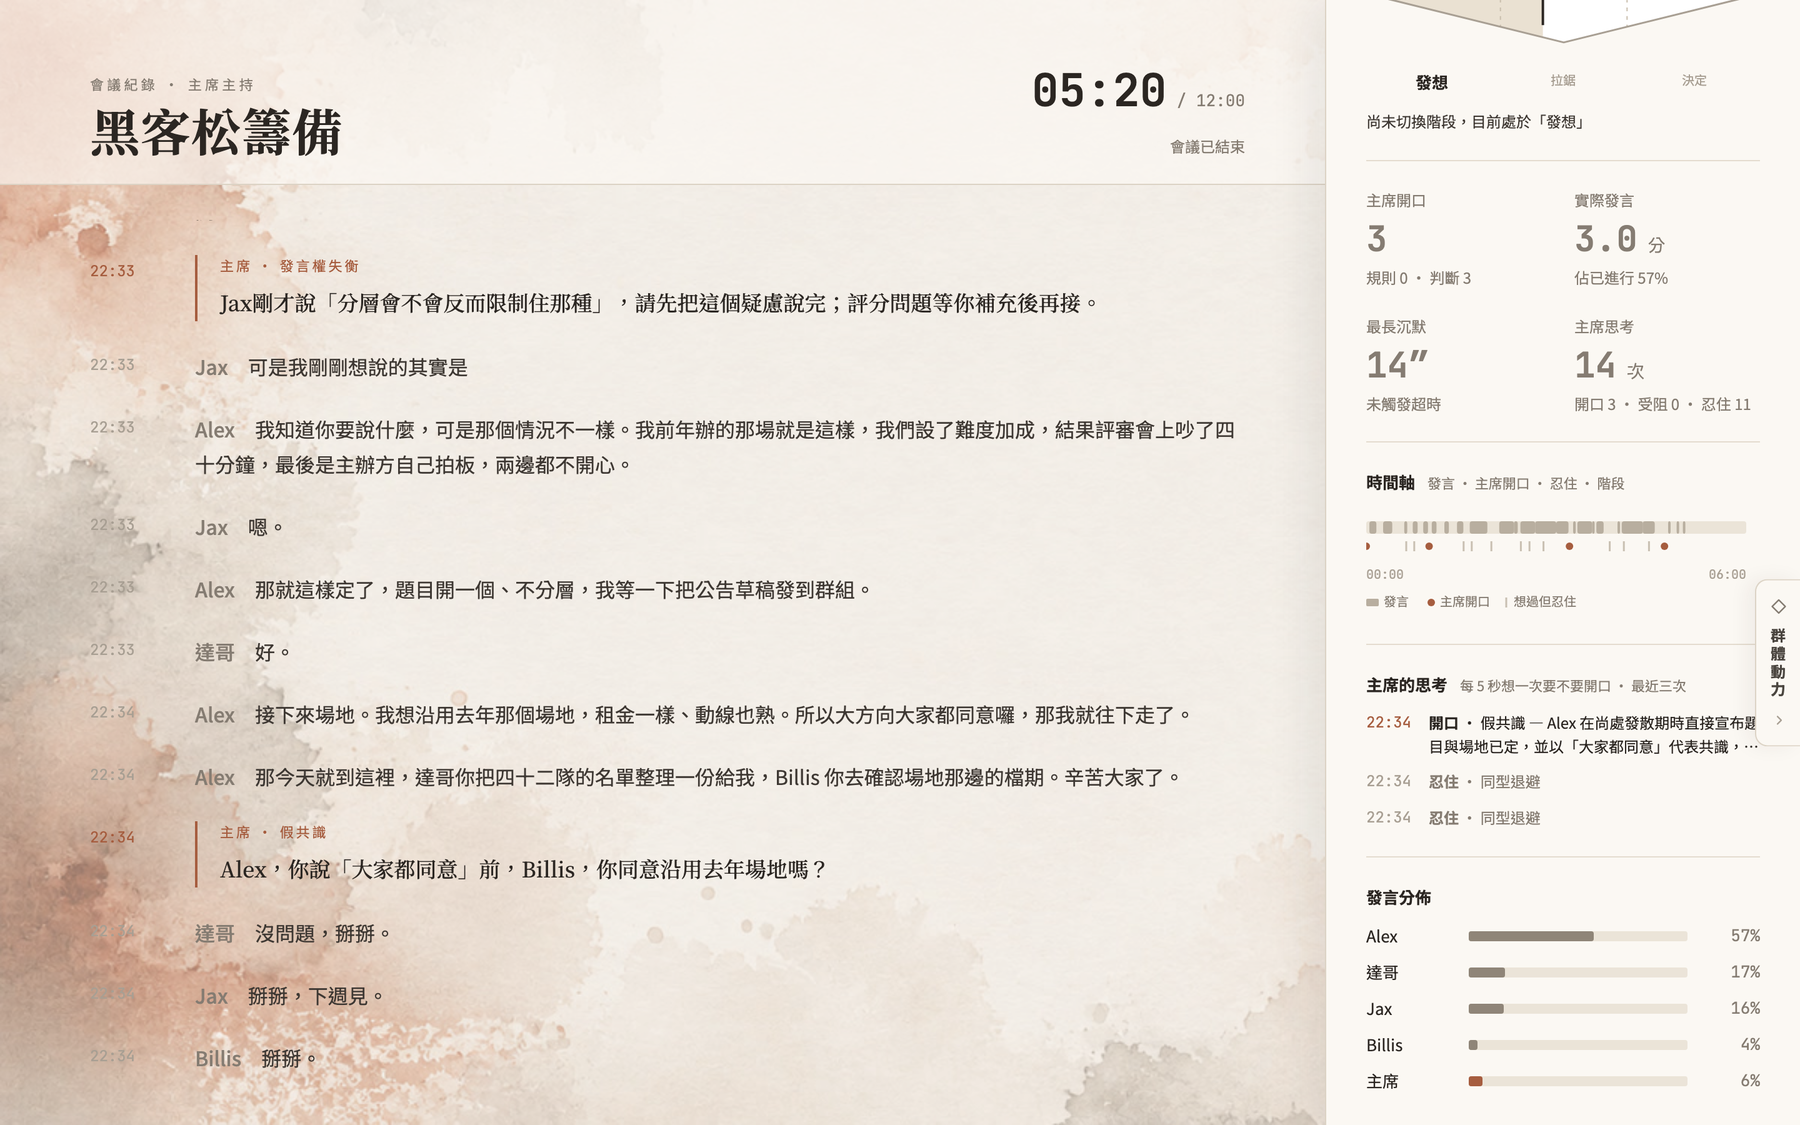
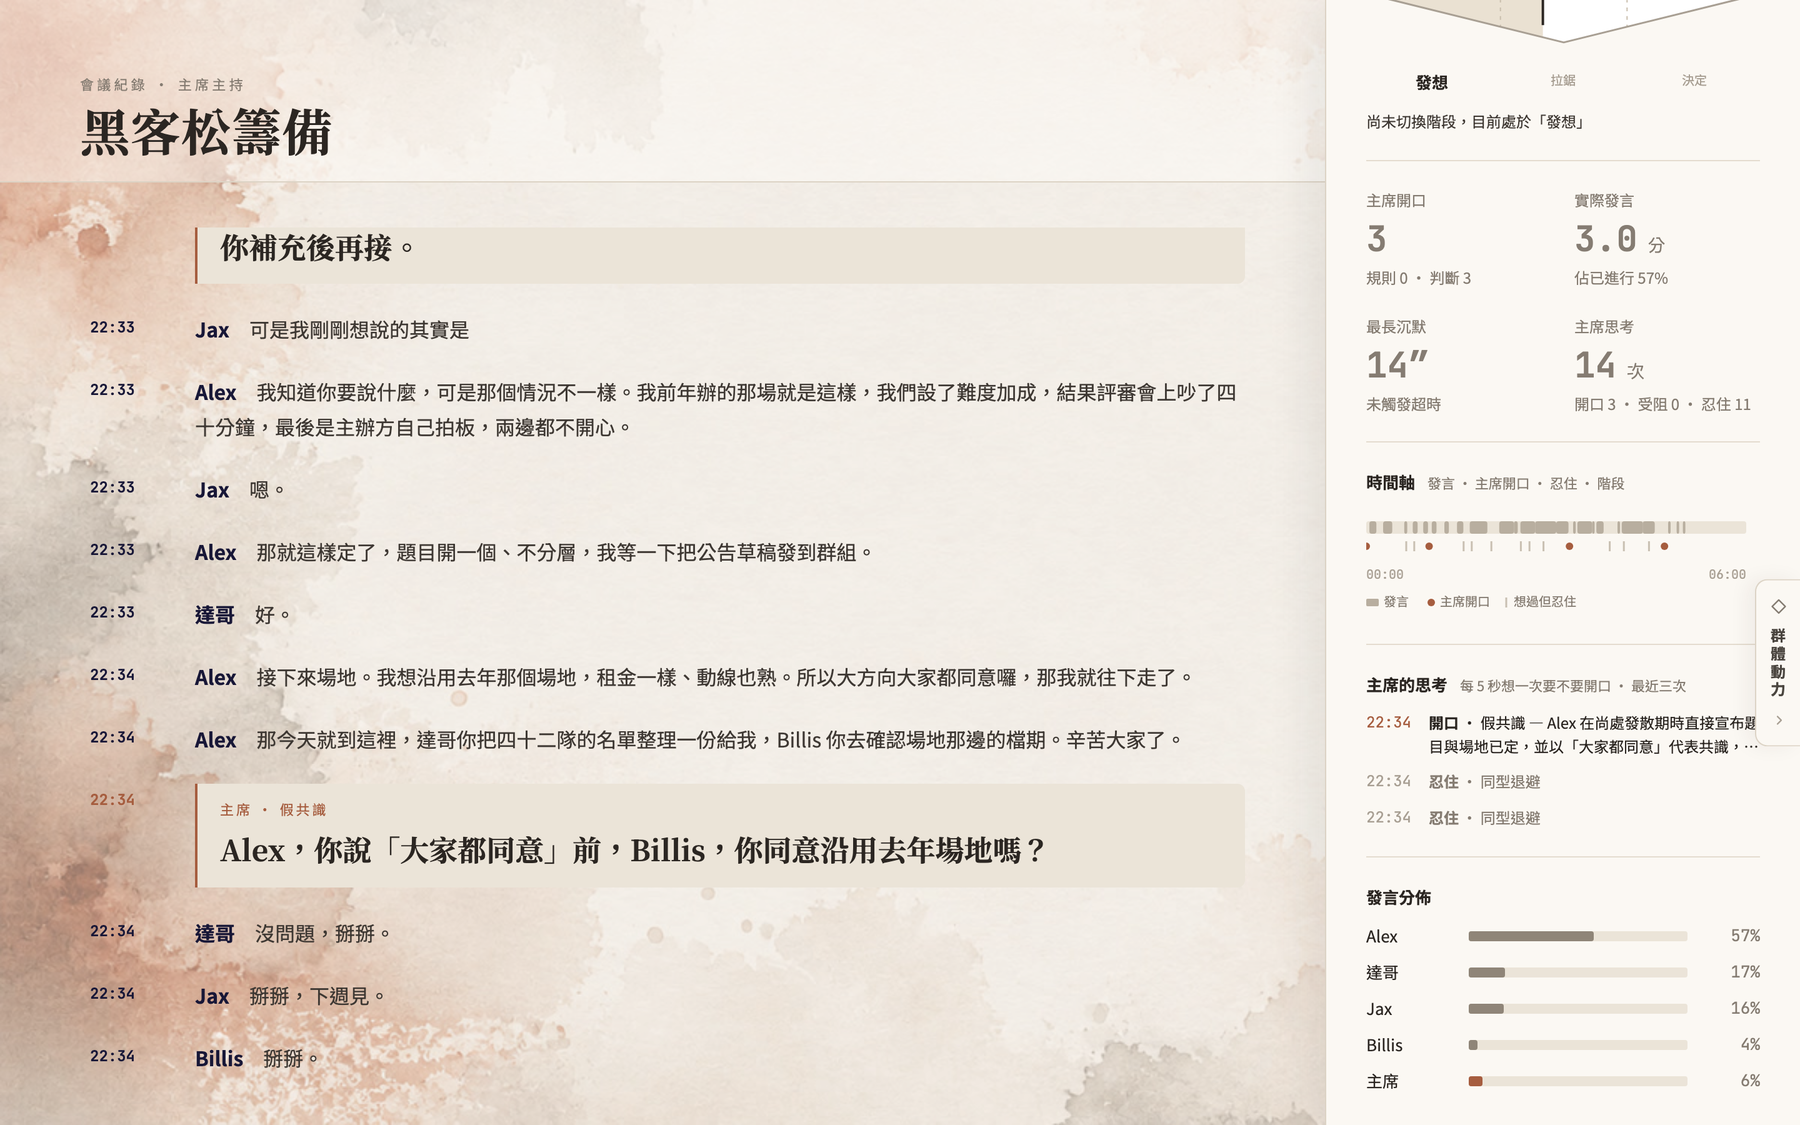
docs(readme): reshoot on the merged UI and ship the highlight cut spec
The interface changed again with PR #6, so the screenshot was one release
stale for the second time in two days. Reshot from the browser at 1.5x.

The reel's two "held back" beats had to be reframed: the new right column
puts the meeting output above the observations, pushing the chair's
reasoning below any crop that also contains the held-back badge. Measured
both — badge at y=107, observations at y=539 — and split them into two
shots, so one beat carries "it is holding back right now" and the other
carries why.

Ship the cut spec next to the event log it cuts, so the reel can be
rebuilt from the repository rather than from a file on one laptop. The
recording offset is now a flag: it differs per recording run, because
page load time is not fixed.

diff --git a/experiments/make_highlight.py b/experiments/make_highlight.py
@@ -61,7 +61,11 @@ ZOOM_END = 0.72      # 推到最後保留原畫面的幾成（越小推越近）
 TARGETS = {
     "none":     None,
     "chair":    (40, 240, 1000, 625),      # 左欄中下段，主席的介入出現在這裡（1.44×）
-    "thinking": (640, 60, 800, 500),       # 右欄「AI 即時觀察」與心聲（1.80×）
+    "thinking": (640, 60, 800, 500),       # 右欄上半（1.80×）
+    # 「忍住」有兩件事要講，但一個 16:10 的框裝不下：徽章在 y≈107，心聲在 y≈540 以下。
+    # 所以拆成兩個鏡位——徽章負責「它現在正忍著」，心聲負責「它為什麼忍」。
+    "held":     (800, 30, 640, 400),       # 計時器＋「忍住中・已忍住 N 秒」（2.25×）
+    "observe":  (740, 462, 700, 438),      # 「AI 即時觀察」與心聲逐條（2.06×）
     "minutes":  (640, 0, 800, 500),        # 右欄「會議產出（預覽）」（1.80×）
     # 「群體動力」抽屜是 right:0／width:380px 的覆疊層，佔畫面右緣整條高度。
     # 內容由上到下是：會議節奏（Kaner 菱形）→ 四個 KPI → 時間軸 → 主席的思考
@@ -170,7 +174,7 @@ def mmss(x: float) -> str:
     return f"{int(x) // 60}:{int(x) % 60:02d}"
 
 
-def sheet(spec: dict, events_path: Path, offset: float = 2.0) -> str:
+def sheet(spec: dict, events_path: Path, offset: float = 0.0) -> str:
     """把事件檔映到精華版的時間軸上，產生配音用的稿子。
 
     精華版是無聲的（TTS 那一軌刻意不留，由人事後配音），所以配音的人需要知道
@@ -237,6 +241,9 @@ def main(argv=None) -> int:
     ap.add_argument("--out", type=Path, default=Path("meetings/ahem-highlight.mp4"))
     ap.add_argument("--events", type=Path, help="事件檔；給了就一併產出配音時間軸")
     ap.add_argument("--sheet-only", action="store_true", help="只產配音稿，不重新渲染影片")
+    ap.add_argument("--offset", type=float, default=0.0,
+                     help="錄影比回放起點晚幾秒。每趟錄影都不一樣（瀏覽器載入耗時不定），"
+                          "用會議時鐘對一格畫面就量得出來")
     a = ap.parse_args(argv)
 
     if a.spec:
@@ -249,7 +256,7 @@ def main(argv=None) -> int:
         build(spec, a.out)
     if a.events:
         md = a.out.with_name(a.out.stem + "-配音稿.md")
-        md.write_text(sheet(spec, a.events), encoding="utf-8")
+        md.write_text(sheet(spec, a.events, a.offset), encoding="utf-8")
         print(f"配音時間軸：{md}")
     return 0
 
